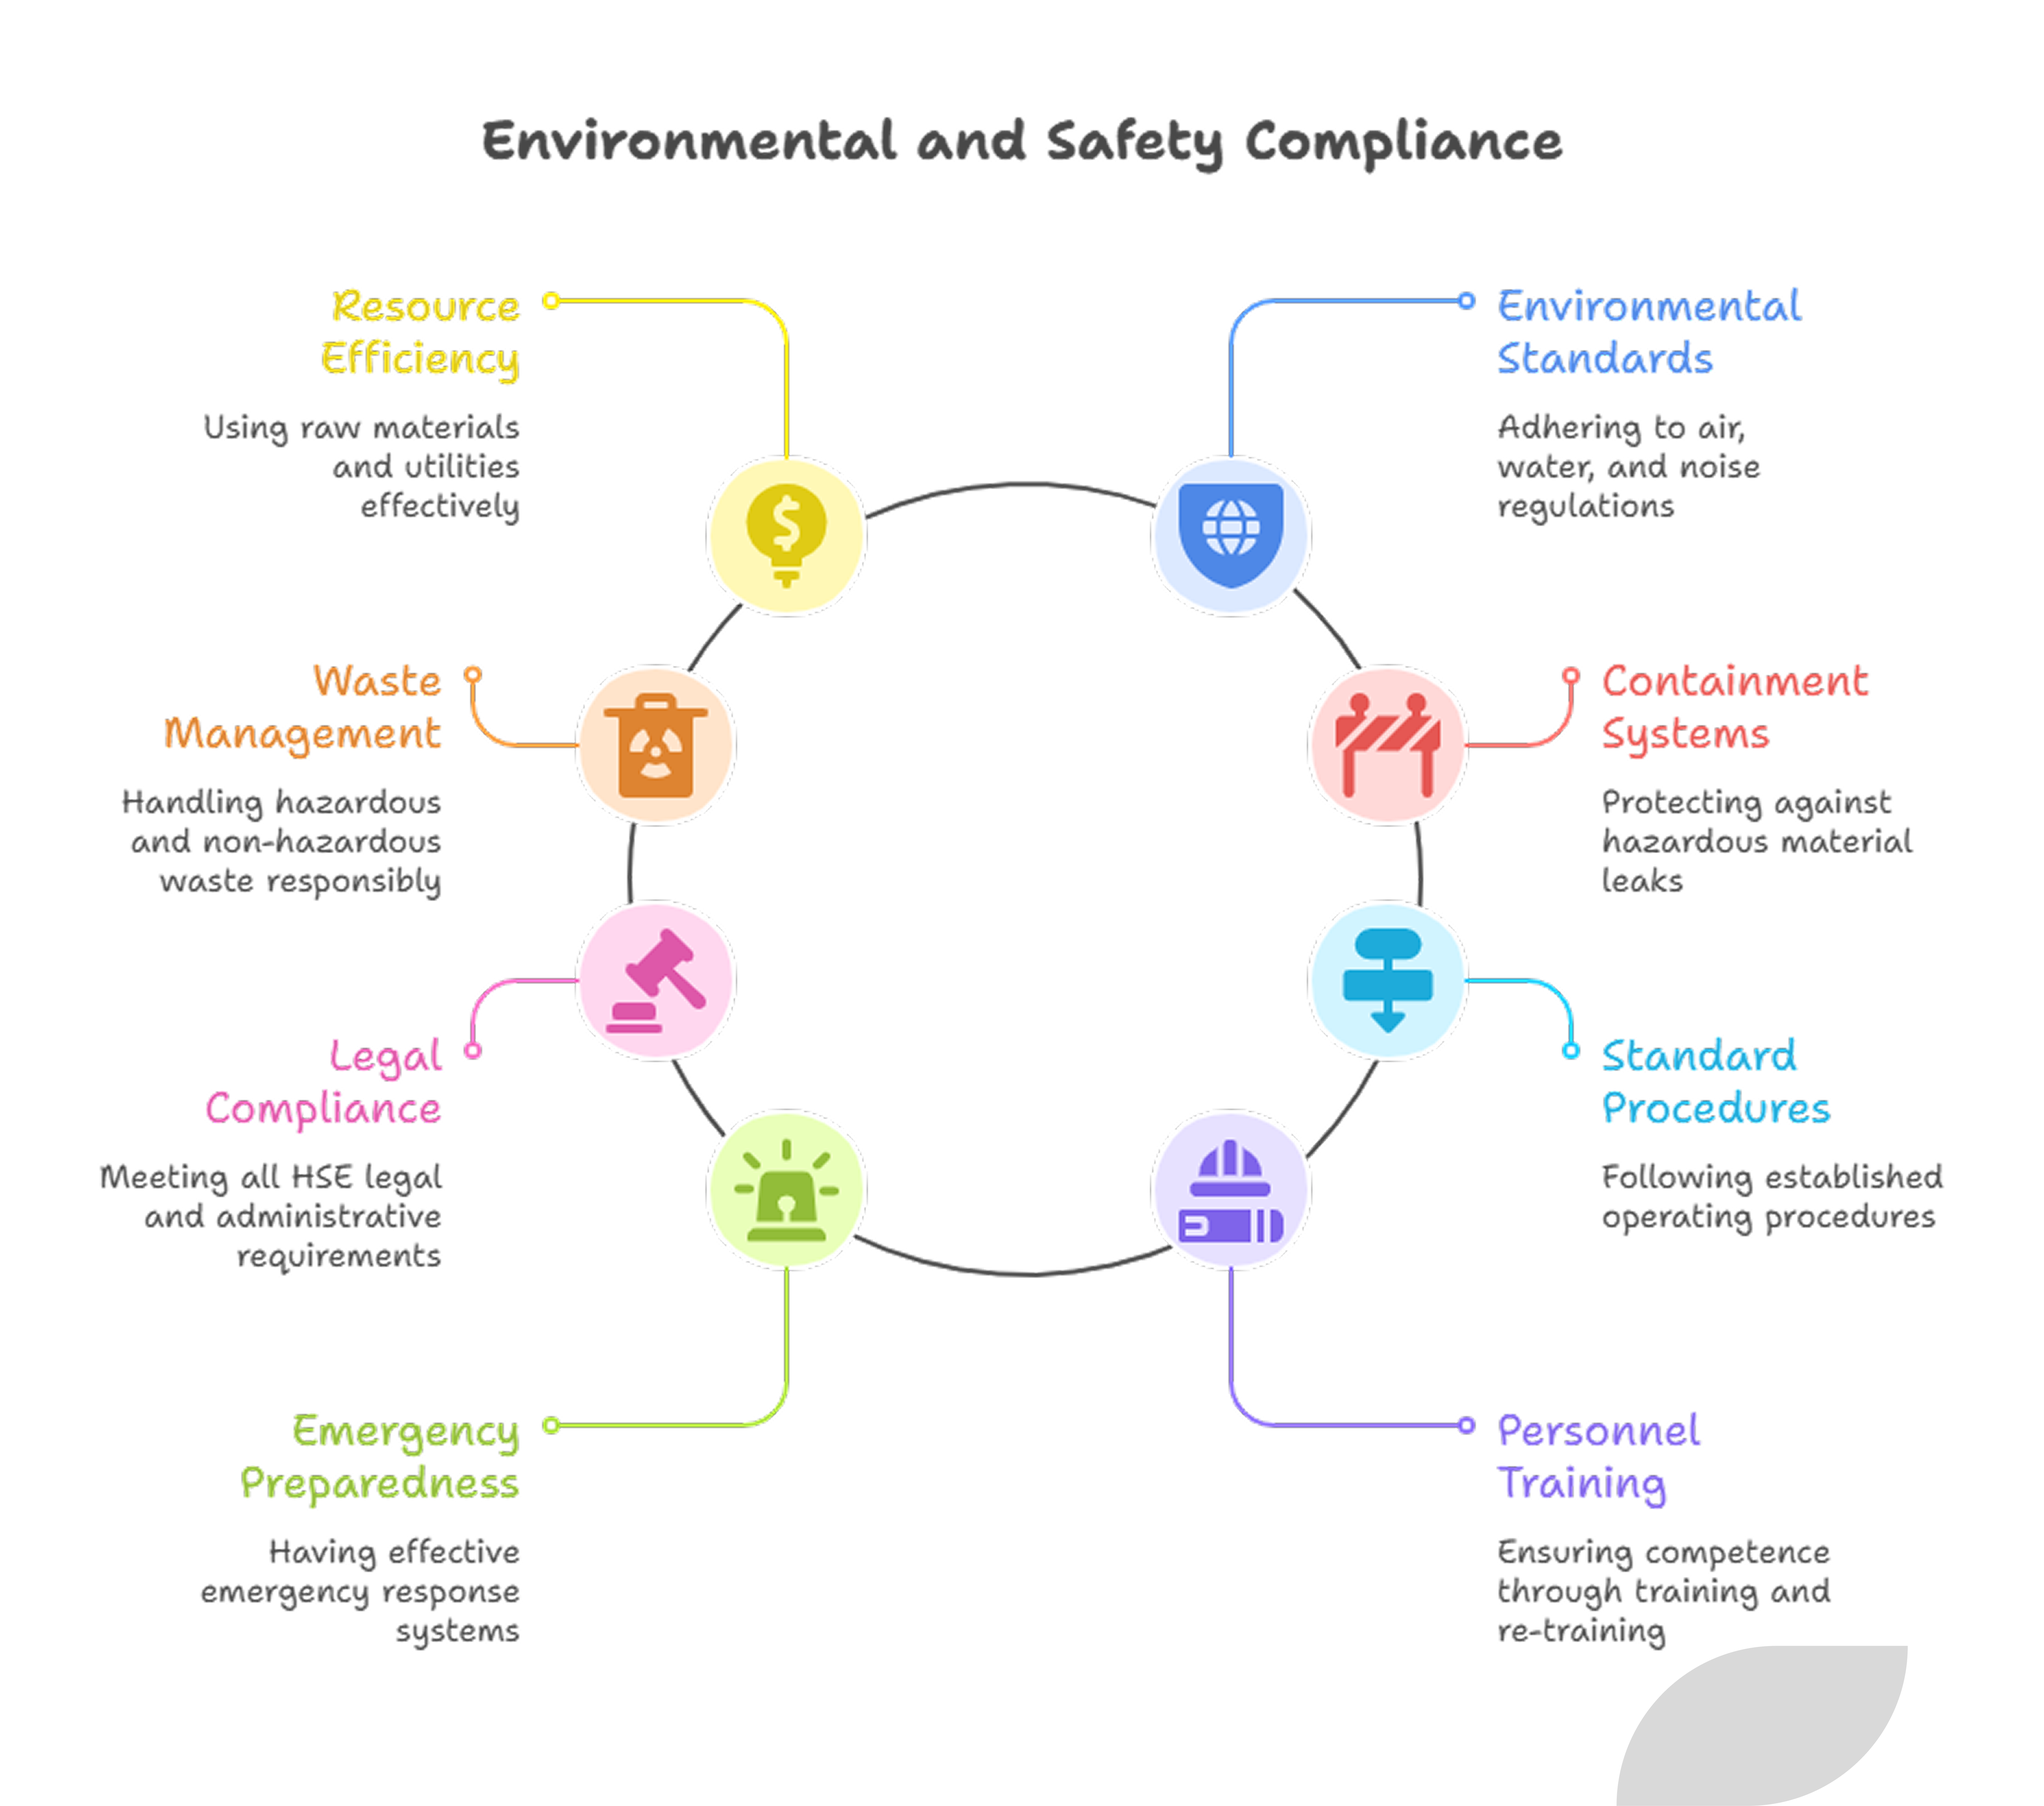
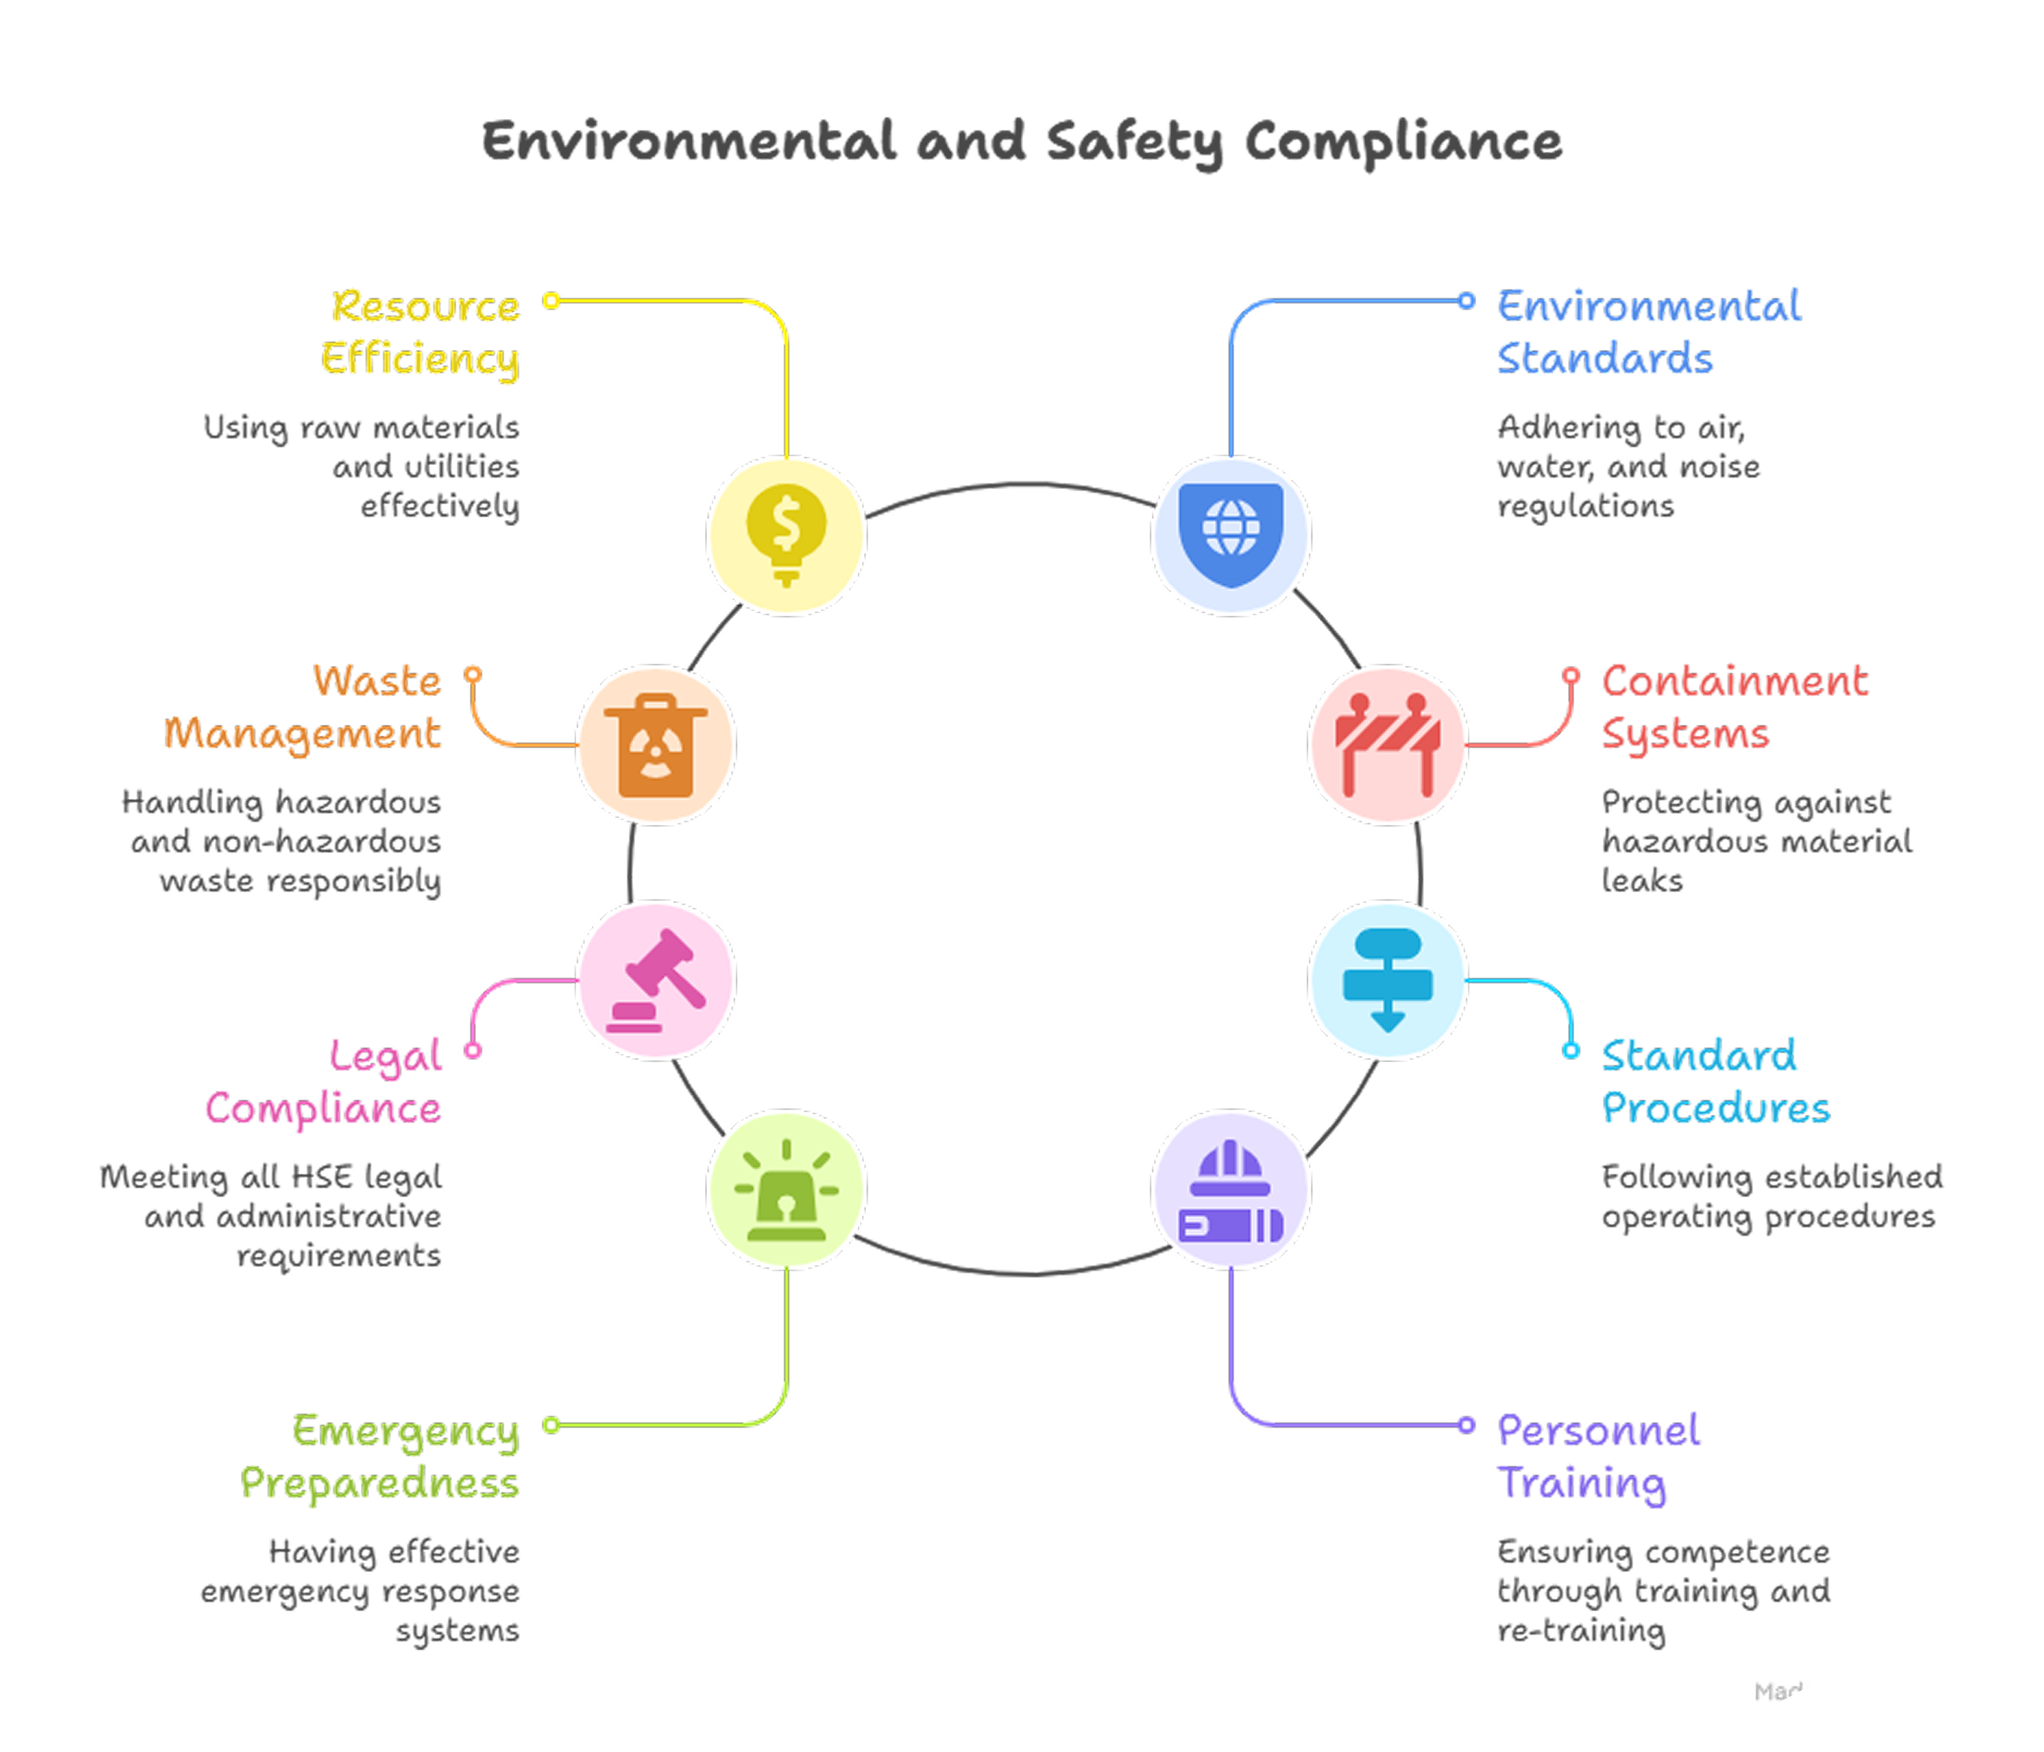
fixes

diff --git a/app/sustainability/page.tsx b/app/sustainability/page.tsx
@@ -146,7 +146,7 @@ export default function Sustainability() {
               <motion.div variants={heroItemVariants} className="pointer-events-auto">
                 <Link
                   href="#sustainability-tabs"
-                  className="mt-8 inline-flex items-center self-start rounded-lg bg-primary-500 px-7 py-3 text-sm font-semibold text-white shadow-lg transition hover:bg-primary-400 focus-visible:outline-2 focus-visible:outline-offset-2 focus-visible:outline-white sm:text-base"
+                  className="my-8 inline-flex items-center self-start rounded-lg bg-primary-500 px-7 py-3 text-sm font-semibold text-white shadow-lg transition hover:bg-primary-400 focus-visible:outline-2 focus-visible:outline-offset-2 focus-visible:outline-white sm:text-base"
                 >
                   Explore Policy Commitments
                 </Link>
@@ -189,7 +189,7 @@ export default function Sustainability() {
 
       <section
         id="sustainability-tabs"
-        className="mt-0 scroll-mt-20 bg-[#d7e8f0]"
+        className="mt-0 scroll-mt-20 bg-white"
         aria-label="Sustainability sections"
       >
         <div className="w-full bg-primary-400 px-4 py-3 sm:px-6 lg:px-8">
@@ -217,75 +217,64 @@ export default function Sustainability() {
           </div>
         </div>
 
-        <div className=" w-full px-0 bg-primary-500/40 mt-16 relative h-160">
+        <div className=" w-full px-0 mt-12 relative h-[34rem]">
 
-        <div className="w-full rounded-tr-[20rem] rounded-bl-[20rem] overflow-hidden absolute h-160">
-        <Image
-                src="/images/sustainability/tree.png"
-                alt="Tree on grassy field"
-                fill
-                className="object-fill absolute"
-                priority
-              />
+          <div className="w-full rounded-tr-[20rem] rounded-bl-[20rem] overflow-hidden absolute h-[34rem]">
+            <Image
+              src="/images/sustainability/tree.png"
+              alt="Tree on grassy field"
+              fill
+              className="object-fill absolute"
+              priority
+            />
 
-             
-        </div>
-          {/* <div className="px-0 py-2 sm:px-2 lg:px-0">
-            <div className="relative overflow-hidden rounded-[4.8rem] bg-[#1f7ea3] px-4 py-10 sm:px-8 sm:py-12 md:px-10 lg:px-14">
-              <Image
-                src="/images/sustainability/tree.png"
-                alt="Tree on grassy field"
-                fill
-                className="object-cover object-bottom"
-                priority
-              />
-              <div className="absolute inset-0 bg-linear-to-b from-[#3d94ba]/90 via-[#2b87ae]/72 to-[#1f7ea3]/40" />
-              <div className="pointer-events-none absolute inset-x-0 bottom-0 h-16 bg-linear-to-t from-[#1f7ea3]/55 to-transparent" />
-              <div className="relative overflow-hidden rounded-[2.15rem] bg-primay-500/80 px-6 py-5 text-white shadow-[0_14px_30px_rgba(0,0,0,0.18)] backdrop-blur-[1.5px] sm:px-8 sm:py-7 md:px-10 md:py-8">
-                <h2 className="text-xl font-extrabold text-[#14b6e8] sm:text-[2.15rem] sm:leading-tight">
-                Environmental Policy Statement
+
+          </div>
+
+          <div className="w-full h-[34rem] rounded-tl-[20rem] rounded-br-[20rem] bg-primary-500/35 absolute" />
+
+          <div className="w-full h-full flex justify-center items-center">
+
+            <div className="relative overflow-hidden w-[50%] inset-0 rounded-[2.15rem] bg-primary-950/60 px-6 py-5 text-white shadow-[0_14px_30px_rgba(0,0,0,0.18)] backdrop-blur-[1.5px] sm:px-8 sm:py-7 md:px-10 md:py-8">
+              <h2 className="text-xl font-extrabold text-[#14b6e8] sm:text-[2.15rem] sm:leading-tight">
+                Environmental <span className="text-white">Policy Statement</span>
               </h2>
-                <p className="mt-4 text-xs font-semibold leading-relaxed text-white/95 sm:text-[1.02rem] sm:leading-[1.45]">
-                  The Mission of Tema Oil Refinery (TOR) Limited is to provide clean energy
-                  products to power Ghana&apos;s economic growth in an environmentally sustainable
-                  manner.
-                </p>
-                <p className="mt-4 text-xs font-semibold leading-relaxed text-white/95 sm:text-[1.02rem] sm:leading-[1.45]">
-                  TOR is committed to implementing pollution prevention and mitigation measures
-                  aimed at avoidance, minimisation, restoration and offset as it refines crude
-                  oil into clean energy products and other related operations.
-                </p>
-                <p className="mt-4 text-xs font-semibold leading-relaxed text-white/95 sm:text-[1.02rem] sm:leading-[1.45]">
-                  TOR shall strive to continually improve on its environmental performance and
-                  ensure compliance with all applicable legal and regulatory requirements.
-                </p>
-              </div>
-              
+              <p className="mt-4 text-xs font-semibold leading-relaxed text-white sm:text-[1.02rem] sm:leading-[1.45]">
+                The Mission of Tema Oil Refinery (TOR) Limited is to provide clean energy
+                products to power Ghana&apos;s economic growth in an environmentally sustainable
+                manner.
+              </p>
+              <p className="mt-4 text-xs font-semibold leading-relaxed text-white/95 sm:text-[1.02rem] sm:leading-[1.45]">
+                TOR is committed to implementing pollution prevention and mitigation measures
+                aimed at avoidance, minimisation, restoration and offset as it refines crude
+                oil into clean energy products and other related operations.
+              </p>
+              <p className="mt-4 text-xs font-semibold leading-relaxed text-white/95 sm:text-[1.02rem] sm:leading-[1.45]">
+                TOR shall strive to continually improve on its environmental performance and
+                ensure compliance with all applicable legal and regulatory requirements.
+              </p>
             </div>
-          </div> */}
+          </div>
+
         </div>
       </section>
 
-      <section className="bg-[#d7e8f0] py-4 sm:py-5">
-        <div className="mx-auto w-full max-w-screen-2xl px-0">
-          <div className="relative overflow-hidden rounded-[0_5rem_5rem_0] bg-[#16a7df] px-4 py-10 sm:px-8 sm:py-12 lg:px-12">
-            <div className="pointer-events-none absolute -left-16 top-0 h-64 w-64 rounded-br-[9rem] bg-[#d7e8f0]" />
-            <div className="pointer-events-none absolute bottom-0 right-0 h-20 w-20 rounded-tl-[3.5rem] bg-[#d7e8f0]" />
-            <h2 className="relative text-center text-lg font-semibold text-[#1d4a5b] sm:text-2xl">
-              Environmental and Safety Compliance
-            </h2>
+      <section className="bg-white py-4 sm:py-5 mb-16 mt-6">
+        <div className="relative w-full h-[70rem]">
+          <div className="absolute bg-primary-500/30 h-[70rem] w-full">
 
-            <div className="relative mx-auto mt-6 w-full max-w-5xl">
+            <div className="absolute bg-primary-500 w-full h-[70rem] rounded-tl-[30rem] rounded-br-[30rem] px-24 pt-10">
               <Image
                 src="/images/sustainability/environment.png"
                 alt="Environmental and safety compliance framework"
-                width={1536}
-                height={1152}
-                className="h-auto w-full object-contain"
+                width={100}
+                height={100}
+                className=" object-fill h-[62rem] w-full"
                 priority
               />
             </div>
           </div>
+
         </div>
       </section>
     </>

diff --git a/components/FooterShowcase.tsx b/components/FooterShowcase.tsx
@@ -41,7 +41,8 @@ export default function FooterShowcase() {
     <footer className="bg-[#004A77] pb-10 pt-12 text-white lg:pt-14">
       <div className="mx-auto w-full max-w-screen-2xl px-6 sm:px-10 lg:px-16">
         <div className="rounded-t-[2.5rem] bg-[#004A77]">
-          <div className="grid grid-cols-1 gap-10 md:grid-cols-2 lg:grid-cols-[1.35fr_1fr_1fr_1fr] lg:gap-16 xl:gap-24">
+          <div className="md:grid md:grid-cols-2 md:gap-x-10 lg:flex lg:justify-between">
+          {/* <div className="grid grid-cols-1 gap-10 md:grid-cols-2 lg:grid-cols-[1.35fr_1fr_1fr_1fr] lg:gap-16 xl:gap-24"> */}
           <div>
             <Link href="/" className="inline-flex items-center gap-4">
               <Image
@@ -55,7 +56,7 @@ export default function FooterShowcase() {
                 Tema Oil Refinery
               </span>
             </Link>
-            <p className="mt-4 max-w-sm text-base leading-snug text-white/95">
+            <p className="mt-4 max-w-sm text-[13px] leading-snug text-white/95">
               Established in 1963 and being the first stellar refinery in Africa.
             </p>
             <div className="mt-5 flex items-center gap-4">
@@ -77,7 +78,7 @@ export default function FooterShowcase() {
             <ul className="mt-4 space-y-3 text-base text-white/95">
               {COMPANY_LINKS.map((link) => (
                 <li key={link.label}>
-                  <Link href={link.href} className="transition-colors hover:text-cyan-200">
+                  <Link href={link.href} className="transition-colors hover:text-cyan-200 text-[13px]">
                     {link.label}
                   </Link>
                 </li>
@@ -90,7 +91,7 @@ export default function FooterShowcase() {
             <ul className="mt-4 space-y-3 text-base text-white/95">
               {OPERATIONS_LINKS.map((link) => (
                 <li key={link.label}>
-                  <Link href={link.href} className="transition-colors hover:text-cyan-200">
+                  <Link href={link.href} className="transition-colors hover:text-cyan-200 text-[13px]">
                     {link.label}
                   </Link>
                 </li>
@@ -103,13 +104,15 @@ export default function FooterShowcase() {
             <ul className="mt-4 space-y-3 text-base text-white/95">
               {RESOURCES_LINKS.map((link) => (
                 <li key={link.label}>
-                  <Link href={link.href} className="transition-colors hover:text-cyan-200">
+                  <Link href={link.href} className="transition-colors hover:text-cyan-200 text-[13px]">
                     {link.label}
                   </Link>
                 </li>
               ))}
             </ul>
           </div>
+
+
           </div>
 
           <div className="mt-12 flex items-center justify-center gap-3 border-t border-white/20 pt-6 text-center text-sm text-white/95 sm:text-base">

diff --git a/components/whatwedo/WhatWeDo.tsx b/components/whatwedo/WhatWeDo.tsx
@@ -8,6 +8,7 @@ import {
   IconTank,
   IconTools,
   IconSchool,
+  IconBuildingWarehouse,
 } from "@tabler/icons-react";
 import WhatWeDoHero from "@/components/whatwedo/WhatWeDoHero";
 
@@ -105,28 +106,28 @@ const supportServices = [
   {
     title: "Storage Tank Services",
     icon: IconTank,
-    image: "/images/whatwedo/our-business.png",
+    image: "/images/whatwedo/image4.webp",
     description:
       "TOR has one of the largest petroleum storage capacities, supporting the safe custody of crude oil, LPG, condensate, naphtha, gasoline premix, kerosene, ATK, gasoil, and fuel oil.",
   },
   {
     title: "Loading Rack Services",
-    icon: IconTools,
-    image: "/images/whatwedo/our-business.png",
+    icon: IconBuildingWarehouse,
+    image: "/images/whatwedo/loading-rack.webp",
     description:
       "TOR provides loading rack services for Bulk Distribution Companies (BDCs) storing imported products in refinery tanks for onward sale and distribution to Oil Marketing Companies (OMCs).",
   },
   {
     title: "Maintenance Services",
     icon: IconTools,
-    image: "/images/whatwedo/our-business.png",
+    image: "/images/whatwedo/maintenance.webp",
     description:
       "TOR performs a wide range of engineering services, including valve replacement and maintenance, pipe replacement and maintenance, installation, commissioning, instrumentation, and other comprehensive maintenance tasks.",
   },
   {
     title: "Training Services",
     icon: IconSchool,
-    image: "/images/whatwedo/our-business.png",
+    image: "/images/whatwedo/training-service.webp",
     description:
       "TOR offers commercial training for industry workers in upstream and downstream operations, with prior training delivered for MODEC and National Petroleum Authority personnel.",
   },

diff --git a/components/about/AboutUsHero.tsx b/components/about/AboutUsHero.tsx
@@ -106,7 +106,7 @@ export default function AboutUsHero() {
                 src={img.src}
                 alt={img.alt}
                 fill
-                className="object-cover"
+                className="object-contain"
                 // priority={img.src === HERO_IMAGES[0].src}
                 sizes="100vw"
               />
